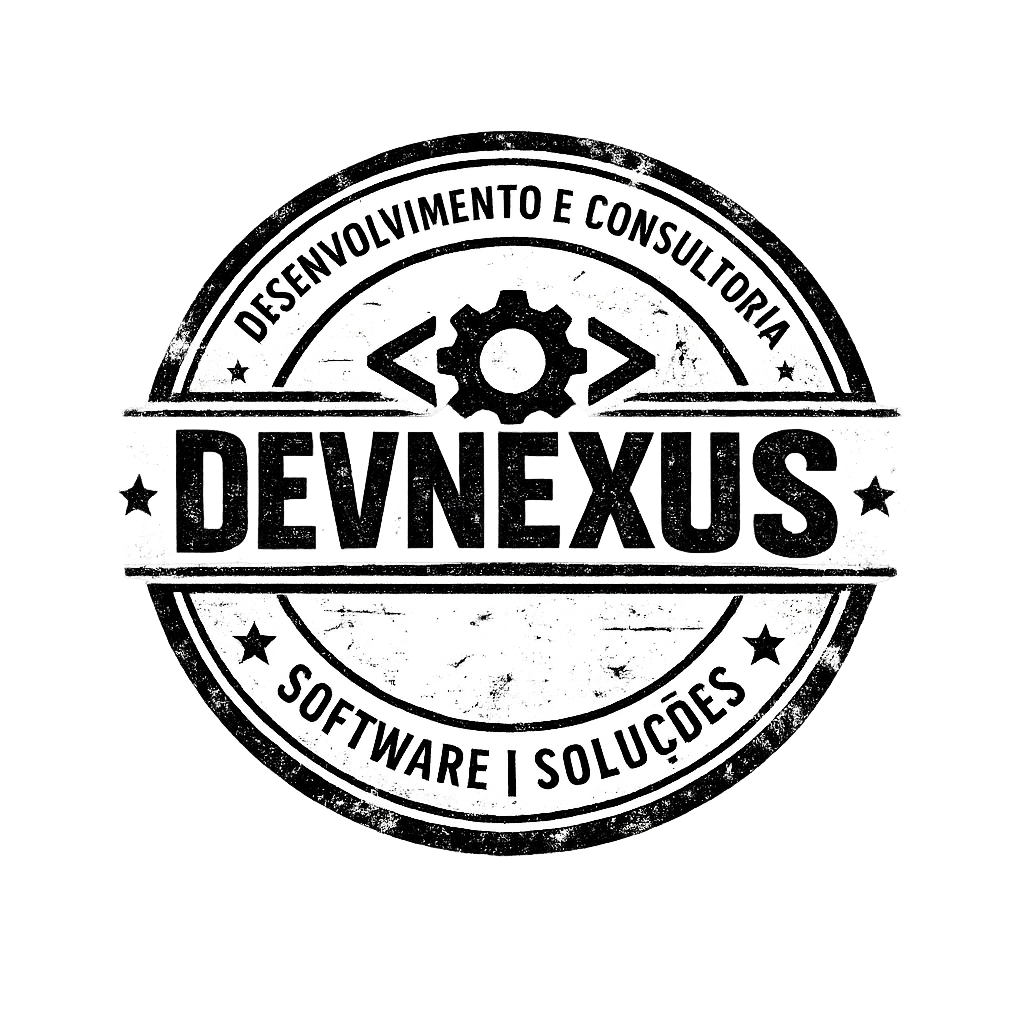
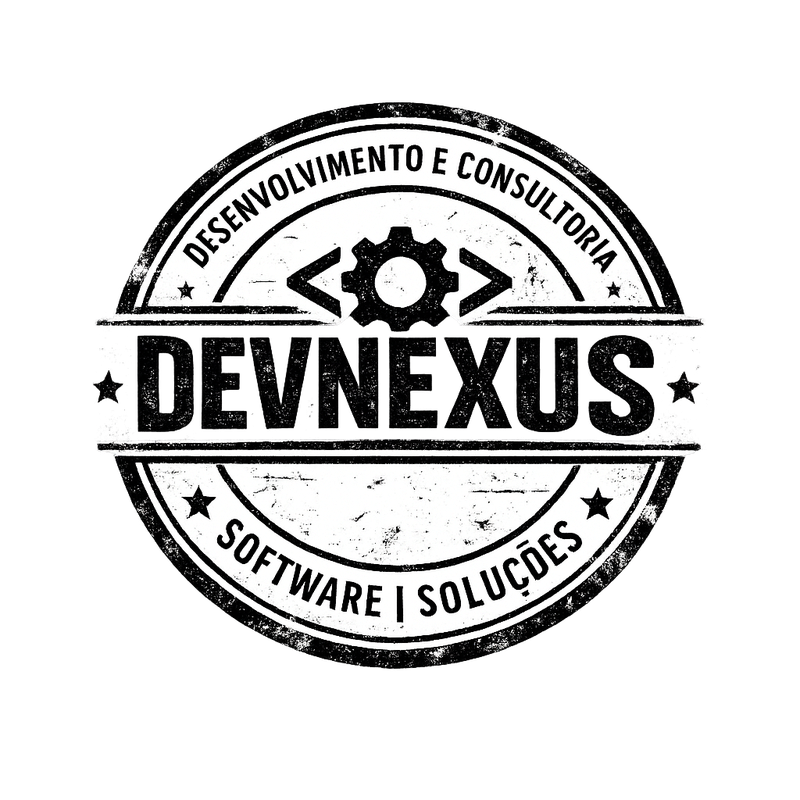
Add files via upload

Changed region(s): [[0.75, 0.6875, 0.7812, 0.7188]]

diff --git a/index.html b/index.html
@@ -3,164 +3,194 @@
 <head>
   <meta charset="UTF-8" />
   <meta name="viewport" content="width=device-width, initial-scale=1.0" />
-  <title>DevNexus Digital | Transformação Digital</title>
-  <meta name="description" content="DevNexus Digital - Consultoria em transformação digital, governação digital, educação, saúde, eleições e administração pública." />
-  <link rel="icon" href="assets/logo-devnexus.png" />
+  <title>DevNexus Digital | Transformação Digital e Governação Pública</title>
+  <meta name="description" content="DevNexus Digital: consultoria em transformação digital, governação de dados, interoperabilidade, educação, saúde, eleições e administração pública." />
+  <meta name="theme-color" content="#062f5f" />
+  <link rel="icon" type="image/png" href="assets/favicon.png" />
+  <link rel="preload" as="image" href="assets/hero-devnexus.webp" />
   <link rel="stylesheet" href="style.css" />
 </head>
 <body>
-  <div class="page-bg"></div>
+  <div class="scroll-progress" aria-hidden="true"></div>
 
-  <header class="topbar">
-    <div class="nav container">
-      <a class="brand" href="#inicio" aria-label="DevNexus Digital">
-        <img src="assets/logo-devnexus.png" alt="DevNexus" />
+  <header class="site-header" id="topo">
+    <div class="container header-inner">
+      <a href="#inicio" class="brand" aria-label="DevNexus Digital">
+        <img src="assets/logo-devnexus.webp" alt="DevNexus Digital" />
       </a>
-      <button class="menu-toggle" aria-label="Abrir menu" aria-expanded="false">☰</button>
-      <nav class="menu">
+      <button class="menu-toggle" aria-label="Abrir menu" aria-expanded="false"><span></span><span></span><span></span></button>
+      <nav class="main-nav" aria-label="Menu principal">
         <a href="#sobre">Sobre</a>
         <a href="#sectores">Sectores</a>
         <a href="#servicos">Serviços</a>
-        <a href="#impacto">Impacto</a>
-        <a href="#contacto" class="nav-cta">Contacto</a>
+        <a href="#metodo">Método</a>
+        <a href="#contacto" class="nav-button">Contacto</a>
       </nav>
     </div>
   </header>
 
   <main id="inicio">
-    <section class="hero">
-      <div class="hero-band"><img src="assets/header-devnexus.png" alt="" /></div>
+    <section class="hero-section">
+      <canvas id="networkCanvas" aria-hidden="true"></canvas>
+      <div class="hero-glow" aria-hidden="true"></div>
       <div class="container hero-grid">
         <div class="hero-copy reveal">
-          <span class="eyebrow">Consultoria em transformação digital</span>
+          <span class="eyebrow">Estratégia · Dados · Sistemas · Instituições</span>
           <h1>Transformação digital com visão institucional.</h1>
-          <p>A DevNexus Digital apoia governos, instituições públicas e projectos na concepção, estruturação e implementação de soluções digitais para educação, saúde, eleições e administração pública.</p>
+          <p class="hero-lead">
+            A DevNexus Digital apoia governos, projectos e organizações públicas na concepção e execução de soluções digitais para educação, saúde, eleições e administração pública.
+          </p>
           <div class="hero-actions">
-            <a href="#servicos" class="btn btn-primary">Ver serviços</a>
-            <a href="#contacto" class="btn btn-secondary">Falar connosco</a>
+            <a class="btn btn-primary" href="#contacto">Pedir contacto</a>
+            <a class="btn btn-ghost" href="#servicos">Ver competências</a>
           </div>
-          <div class="quick-proof">
+          <div class="hero-meta" aria-label="Competências principais">
             <span>Governação digital</span>
+            <span>Interoperabilidade</span>
             <span>Arquitectura institucional</span>
-            <span>Dados e interoperabilidade</span>
           </div>
         </div>
-        <div class="hero-visual reveal reveal-right">
-          <img src="assets/hero-devnexus.png" alt="Imagem institucional DevNexus" />
+
+        <div class="hero-card reveal right">
+          <picture>
+            <source srcset="assets/hero-devnexus.webp" type="image/webp" />
+            <img src="assets/hero-devnexus.webp" alt="Imagem corporativa DevNexus Digital" />
+          </picture>
+          <div class="floating-panel panel-one">Dados governados</div>
+          <div class="floating-panel panel-two">Serviços digitais</div>
         </div>
       </div>
     </section>
 
-    <section id="sobre" class="section">
-      <div class="container split">
-        <div class="section-title reveal">
-          <span class="section-kicker">Quem somos</span>
-          <h2>Não vendemos fantasia tecnológica. Estruturamos transformação que funciona.</h2>
+    <section id="sobre" class="section intro-section">
+      <div class="container two-col">
+        <div class="section-heading reveal">
+          <span class="kicker">Quem somos</span>
+          <h2>Menos teatro tecnológico. Mais execução que sobrevive ao terreno.</h2>
         </div>
-        <div class="text-block reveal">
-          <p>A DevNexus Digital trabalha na ligação entre estratégia, processos, dados, sistemas e capacidade institucional. O nosso foco é ajudar organizações públicas e projectos de desenvolvimento a desenhar soluções digitais que resistem ao uso real.</p>
-          <p>A tecnologia entra como instrumento. A base é sempre institucional: clareza de mandato, processos bem definidos, dados governados, responsabilidades assumidas e equipas capacitadas.</p>
+        <div class="copy-block reveal">
+          <p>A DevNexus Digital trabalha na zona onde muitos projectos se perdem: entre a decisão política, o processo administrativo, o dado, a tecnologia e a capacidade real das instituições.</p>
+          <p>O nosso papel é transformar confusão institucional em arquitectura funcional, documentos técnicos, roteiros de implementação e sistemas digitais que fazem sentido para quem gere e para quem usa.</p>
         </div>
       </div>
     </section>
 
-    <section id="sectores" class="section alt">
+    <section id="sectores" class="section sectors-section">
       <div class="container">
-        <div class="section-title center reveal">
-          <span class="section-kicker">Sectores</span>
-          <h2>Áreas onde o Estado não se pode dar ao luxo de improvisar.</h2>
-          <p>Transformação digital aplicada a sectores onde confiança, continuidade e rigor fazem diferença.</p>
+        <div class="section-heading center reveal">
+          <span class="kicker">Sectores de actuação</span>
+          <h2>Áreas onde rigor, confiança e continuidade contam mesmo.</h2>
         </div>
-        <div class="cards four">
-          <article class="card reveal"><div class="card-icon">🎓</div><h3>Educação</h3><p>Sistemas de gestão escolar, inventário TIC, dados educacionais, conectividade, SIGE e capacidade operacional.</p></article>
-          <article class="card reveal"><div class="card-icon">🏥</div><h3>Saúde</h3><p>Digitalização de processos, informação clínica e administrativa, interoperabilidade e apoio à decisão.</p></article>
-          <article class="card reveal"><div class="card-icon">🗳️</div><h3>Eleições</h3><p>Gestão de dados eleitorais, integridade, rastreabilidade, segurança e transparência operacional.</p></article>
-          <article class="card reveal"><div class="card-icon">🏛️</div><h3>Administração Pública</h3><p>Modernização administrativa, serviços digitais, arquitectura empresarial e reorganização de processos.</p></article>
-        </div>
-      </div>
-    </section>
-
-    <section id="servicos" class="section">
-      <div class="container">
-        <div class="section-title center reveal">
-          <span class="section-kicker">Serviços</span>
-          <h2>Da estratégia ao desenho operacional.</h2>
-          <p>Trabalho técnico, institucional e pragmático. Sem apresentações bonitas que depois ninguém consegue executar.</p>
-        </div>
-        <div class="services">
-          <article class="service reveal"><span>01</span><div><h3>Estratégia e governação digital</h3><p>Estratégias, modelos de governação, roteiros, planos de acção e organização institucional da transformação digital.</p></div></article>
-          <article class="service reveal"><span>02</span><div><h3>Diagnóstico institucional e tecnológico</h3><p>Levantamento de processos, sistemas, dados, infraestruturas, riscos, maturidade digital e prioridades reais.</p></div></article>
-          <article class="service reveal"><span>03</span><div><h3>Arquitectura e especificações</h3><p>Termos de referência, requisitos funcionais, modelos de dados, interoperabilidade, perfis e critérios de aceitação.</p></div></article>
-          <article class="service reveal"><span>04</span><div><h3>Capacitação e apoio à implementação</h3><p>Formação, manuais, gestão da mudança, acompanhamento técnico e reforço da sustentabilidade institucional.</p></div></article>
+        <div class="sector-grid">
+          <article class="sector-card reveal"><span>ED</span><h3>Educação</h3><p>SIGE, inventário TIC, dados escolares, conectividade, interoperabilidade e capacitação das estruturas educativas.</p></article>
+          <article class="sector-card reveal"><span>SA</span><h3>Saúde</h3><p>Digitalização de processos, fluxos de informação, governação de dados e integração entre unidades e serviços.</p></article>
+          <article class="sector-card reveal"><span>EL</span><h3>Eleições</h3><p>Gestão segura de dados, rastreabilidade, transparência operacional, auditoria e integridade dos processos eleitorais.</p></article>
+          <article class="sector-card reveal"><span>AP</span><h3>Administração Pública</h3><p>Modernização administrativa, serviços digitais, arquitectura empresarial e reorganização de processos públicos.</p></article>
         </div>
       </div>
     </section>
 
-    <section id="impacto" class="section alt">
+    <section id="servicos" class="section services-section">
       <div class="container">
-        <div class="section-title center reveal">
-          <span class="section-kicker">Impacto</span>
-          <h2>Indicadores visuais da proposta de valor.</h2>
-          <p>Gráficos animados para comunicar foco estratégico e maturidade de intervenção.</p>
+        <div class="section-heading center reveal">
+          <span class="kicker">Serviços</span>
+          <h2>Da ideia política ao desenho técnico executável.</h2>
+          <p>Entregamos trabalho que ajuda a decidir, contratar, implementar e sustentar.</p>
+        </div>
+        <div class="service-grid">
+          <article class="service-card reveal"><small>01</small><h3>Estratégia e governação digital</h3><p>Estratégias, modelos de governação, planos de acção, arquitectura institucional e roteiros realistas.</p></article>
+          <article class="service-card reveal"><small>02</small><h3>Diagnóstico institucional e tecnológico</h3><p>Levantamento de processos, sistemas, dados, infraestruturas, capacidades, riscos e prioridades.</p></article>
+          <article class="service-card reveal"><small>03</small><h3>Interoperabilidade e dados</h3><p>Modelos de dados, catálogos, integração entre sistemas, normas, API, qualidade e responsabilidade institucional.</p></article>
+          <article class="service-card reveal"><small>04</small><h3>Termos de referência e procurement</h3><p>Requisitos funcionais, especificações técnicas, critérios de aceitação e documentação ao estilo de projectos internacionais.</p></article>
+          <article class="service-card reveal"><small>05</small><h3>Capacitação e gestão da mudança</h3><p>Formação, manuais, apoio à adopção, procedimentos e reforço das equipas nacionais.</p></article>
+          <article class="service-card reveal"><small>06</small><h3>Monitorização e sustentabilidade</h3><p>Indicadores, painéis, controlo de execução, melhoria contínua e continuidade operacional.</p></article>
+        </div>
+      </div>
+    </section>
+
+    <section id="metodo" class="section method-section">
+      <div class="container">
+        <div class="method-wrap reveal">
+          <div class="method-copy">
+            <span class="kicker">Método DevNexus</span>
+            <h2>Primeiro a instituição. Depois o sistema.</h2>
+            <p>Não começamos pelo software. Começamos pelo mandato, pelos processos, pelos dados, pelas responsabilidades e pelos riscos. Só depois se desenha a solução.</p>
+          </div>
+          <div class="timeline">
+            <div><strong>01</strong><span>Diagnosticar</span></div>
+            <div><strong>02</strong><span>Desenhar</span></div>
+            <div><strong>03</strong><span>Implementar</span></div>
+            <div><strong>04</strong><span>Consolidar</span></div>
+          </div>
+        </div>
+      </div>
+    </section>
+
+    <section class="section impact-section">
+      <div class="container">
+        <div class="section-heading center reveal">
+          <span class="kicker">Impacto visual</span>
+          <h2>Foco nos pilares que fazem a transformação avançar.</h2>
         </div>
         <div class="impact-grid">
           <article class="chart-card reveal">
-            <h3>Maturidade por sector</h3>
+            <h3>Maturidade de intervenção</h3>
             <div class="bars">
-              <div class="bar-row"><span>Educação</span><div class="bar"><i data-width="86%"></i></div></div>
-              <div class="bar-row"><span>Saúde</span><div class="bar"><i data-width="72%"></i></div></div>
-              <div class="bar-row"><span>Eleições</span><div class="bar"><i data-width="78%"></i></div></div>
-              <div class="bar-row"><span>Administração Pública</span><div class="bar"><i data-width="90%"></i></div></div>
+              <div class="bar-item"><span>Governação</span><b><i data-width="92%"></i></b></div>
+              <div class="bar-item"><span>Dados</span><b><i data-width="86%"></i></b></div>
+              <div class="bar-item"><span>Processos</span><b><i data-width="84%"></i></b></div>
+              <div class="bar-item"><span>Sistemas</span><b><i data-width="88%"></i></b></div>
+              <div class="bar-item"><span>Capacitação</span><b><i data-width="78%"></i></b></div>
             </div>
           </article>
           <article class="chart-card reveal">
-            <h3>Integração institucional</h3>
-            <div class="donut" data-percent="88">
-              <svg viewBox="0 0 160 160"><circle cx="80" cy="80" r="62" class="track"></circle><circle cx="80" cy="80" r="62" class="progress"></circle></svg>
-              <strong>88%</strong>
-            </div>
-            <p>Estratégia, processos, dados e tecnologia alinhados.</p>
+            <h3>Integração estratégia-tecnologia</h3>
+            <div class="donut" data-percent="89"><svg viewBox="0 0 180 180"><circle class="track" cx="90" cy="90" r="70"></circle><circle class="progress" cx="90" cy="90" r="70"></circle></svg><strong>89%</strong></div>
+            <p>Alinhamento entre visão, arquitectura, dados e execução.</p>
           </article>
-          <article class="chart-card reveal">
-            <h3>Componentes da transformação</h3>
-            <div class="mini-bars">
-              <div style="--w:92%"><span>Governação</span><i></i></div>
-              <div style="--w:84%"><span>Dados</span><i></i></div>
-              <div style="--w:80%"><span>Processos</span><i></i></div>
-              <div style="--w:88%"><span>Sistemas</span><i></i></div>
-              <div style="--w:76%"><span>Capacitação</span><i></i></div>
-            </div>
+          <article class="stamp-card reveal">
+            <img src="assets/stamp-devnexus.webp" alt="Carimbo DevNexus" />
           </article>
         </div>
       </div>
     </section>
 
-    <section class="section signature">
-      <div class="container signature-box reveal">
-        <div><span class="section-kicker">Assinatura institucional</span><h2>Rigor, clareza e execução.</h2><p>A DevNexus Digital posiciona-se como parceira técnica para transformar necessidades institucionais em soluções digitais robustas, governáveis e sustentáveis.</p></div>
-        <img src="assets/stamp-devnexus.png" alt="Carimbo DevNexus" />
-      </div>
-    </section>
-
-    <section id="contacto" class="section contact">
+    <section id="contacto" class="section contact-section">
       <div class="container contact-grid">
-        <div class="reveal"><span class="section-kicker">Contacto</span><h2>Vamos falar sobre o seu projecto?</h2><p>Conte-nos o desafio: sector, instituição, sistema, processo ou problema de governação. A DevNexus Digital ajuda a transformar confusão inicial num caminho de execução.</p></div>
-        <div class="contact-card reveal">
-          <a href="mailto:[email redacted]">[email redacted]</a>
-          <a href="https://devnexusdigital.com">devnexusdigital.com</a>
-          <span>Educação · Saúde · Eleições · Administração Pública</span>
+        <div class="contact-copy reveal">
+          <span class="kicker">Contacto</span>
+          <h2>Vamos falar sobre o seu projecto?</h2>
+          <p>Envie a mensagem directamente pelo formulário. Não abre Outlook, Gmail nem aplicação de email. A mensagem segue pelo serviço de formulário configurado.</p>
+          <div class="contact-lines">
+            <a href="mailto:[email redacted]">[email redacted]</a>
+            <a href="https://devnexusdigital.com">devnexusdigital.com</a>
+          </div>
         </div>
+
+        <form id="contactForm" class="contact-form reveal" action="https://formsubmit.co/[email redacted]" method="POST">
+          <input type="hidden" name="_subject" value="Nova mensagem do site DevNexus Digital" />
+          <input type="hidden" name="_template" value="table" />
+          <input type="hidden" name="_captcha" value="false" />
+          <input type="hidden" name="_next" value="https://devnexusdigital.com/obrigado.html" />
+          <label>Nome<input name="nome" type="text" placeholder="O seu nome" required /></label>
+          <label>Email<input name="email" type="email" placeholder="[email redacted]" required /></label>
+          <label>Área<select name="area" required><option value="">Escolher área</option><option>Educação</option><option>Saúde</option><option>Eleições</option><option>Administração Pública</option><option>Transformação digital</option><option>Outra</option></select></label>
+          <label>Mensagem<textarea name="mensagem" placeholder="Explique, em poucas linhas, o desafio ou necessidade." required></textarea></label>
+          <button class="btn btn-primary" type="submit">Enviar mensagem</button>
+          <p id="formStatus" class="form-status" aria-live="polite"></p>
+        </form>
       </div>
     </section>
   </main>
 
   <footer class="footer">
     <div class="container footer-inner">
-      <img src="assets/logo-devnexus.png" alt="DevNexus" />
-      <p>© 2026 DevNexus Digital. Todos os direitos reservados.</p>
+      <img src="assets/logo-devnexus.webp" alt="DevNexus Digital" />
+      <p>© 2026 DevNexus Digital. Transformação digital, governação e sistemas públicos.</p>
+      <a href="#topo">Voltar ao topo ↑</a>
     </div>
   </footer>
 
-  <script src="script.js"></script>
+  <script src="script.js" defer></script>
 </body>
 </html>

diff --git a/script.js b/script.js
@@ -1,1 +1,7 @@
-const toggle=document.querySelector(".menu-toggle");const menu=document.querySelector(".menu");if(toggle&&menu){toggle.addEventListener("click",()=>{const e=menu.classList.toggle("open");toggle.setAttribute("aria-expanded",String(e))});menu.querySelectorAll("a").forEach(e=>{e.addEventListener("click",()=>{menu.classList.remove("open");toggle.setAttribute("aria-expanded","false")})})}const revealObserver=new IntersectionObserver(e=>{e.forEach(e=>{if(e.isIntersecting)e.target.classList.add("show")})},{threshold:.16});document.querySelectorAll(".reveal").forEach(e=>revealObserver.observe(e));const chartObserver=new IntersectionObserver(e=>{e.forEach(e=>{if(!e.isIntersecting)return;e.target.querySelectorAll(".bar i").forEach(e=>{e.style.width=e.dataset.width||"75%"});e.target.querySelectorAll(".mini-bars div").forEach(e=>{const t=e.querySelector("i");if(t)t.style.width=e.style.getPropertyValue("--w")||"70%"});const t=e.target.querySelector(".donut");if(t){const e=Number(t.dataset.percent||0),r=389.56-(389.56*e/100),o=t.querySelector(".progress");if(o)o.style.strokeDashoffset=r}})},{threshold:.3});document.querySelectorAll(".chart-card").forEach(e=>chartObserver.observe(e));
+const header=document.querySelector('.site-header');const progress=document.querySelector('.scroll-progress');const toggle=document.querySelector('.menu-toggle');const nav=document.querySelector('.main-nav');function onScroll(){const y=window.scrollY;header.classList.toggle('scrolled',y>30);const h=document.documentElement.scrollHeight-window.innerHeight;progress.style.width=(h>0?y/h*100:0)+'%'}window.addEventListener('scroll',onScroll,{passive:true});onScroll();if(toggle&&nav){toggle.addEventListener('click',()=>{const open=nav.classList.toggle('open');toggle.setAttribute('aria-expanded',String(open))});nav.querySelectorAll('a').forEach(a=>a.addEventListener('click',()=>{nav.classList.remove('open');toggle.setAttribute('aria-expanded','false')}))}const revealObs=new IntersectionObserver(entries=>{entries.forEach(entry=>{if(entry.isIntersecting){entry.target.classList.add('show');revealObs.unobserve(entry.target)}})},{threshold:.14});document.querySelectorAll('.reveal').forEach(el=>revealObs.observe(el));const chartObs=new IntersectionObserver(entries=>{entries.forEach(entry=>{if(!entry.isIntersecting)return;entry.target.querySelectorAll('.bars i').forEach(i=>{i.style.width=i.dataset.width||'75%'});const donut=entry.target.querySelector('.donut');if(donut){const p=Number(donut.dataset.percent||0);const c=439.82;const circle=donut.querySelector('.progress');circle.style.strokeDashoffset=c-(c*p/100)}chartObs.unobserve(entry.target)})},{threshold:.28});document.querySelectorAll('.chart-card').forEach(el=>chartObs.observe(el));
+
+// Network animation, leve e sem bibliotecas externas
+const canvas=document.getElementById('networkCanvas');if(canvas){const ctx=canvas.getContext('2d');let w,h,nodes=[];const count=48;function resize(){w=canvas.width=canvas.offsetWidth*devicePixelRatio;h=canvas.height=canvas.offsetHeight*devicePixelRatio;ctx.setTransform(devicePixelRatio,0,0,devicePixelRatio,0,0);nodes=Array.from({length:count},()=>({x:Math.random()*canvas.offsetWidth,y:Math.random()*canvas.offsetHeight,vx:(Math.random()-.5)*.35,vy:(Math.random()-.5)*.35,r:Math.random()*2+1}))}window.addEventListener('resize',resize);resize();function draw(){const cw=canvas.offsetWidth,ch=canvas.offsetHeight;ctx.clearRect(0,0,cw,ch);for(const a of nodes){a.x+=a.vx;a.y+=a.vy;if(a.x<0||a.x>cw)a.vx*=-1;if(a.y<0||a.y>ch)a.vy*=-1;ctx.beginPath();ctx.arc(a.x,a.y,a.r,0,Math.PI*2);ctx.fillStyle='rgba(0,143,227,.42)';ctx.fill()}for(let i=0;i<nodes.length;i++){for(let j=i+1;j<nodes.length;j++){const a=nodes[i],b=nodes[j],dx=a.x-b.x,dy=a.y-b.y,d=Math.sqrt(dx*dx+dy*dy);if(d<145){ctx.beginPath();ctx.moveTo(a.x,a.y);ctx.lineTo(b.x,b.y);ctx.strokeStyle=`rgba(0,143,227,${(1-d/145)*.18})`;ctx.lineWidth=1;ctx.stroke()}}}requestAnimationFrame(draw)}draw()}
+
+// Formulário directo via FormSubmit AJAX. Na primeira mensagem, FormSubmit pede confirmação no email configurado.
+const form=document.getElementById('contactForm');const statusEl=document.getElementById('formStatus');if(form){form.addEventListener('submit',async(e)=>{e.preventDefault();statusEl.textContent='A enviar mensagem...';const data=new FormData(form);try{const res=await fetch('https://formsubmit.co/ajax/[email redacted]',{method:'POST',headers:{'Accept':'application/json'},body:data});if(!res.ok)throw new Error('Erro no envio');form.reset();statusEl.textContent='Mensagem enviada. Verifique também o email de confirmação do serviço, se for a primeira submissão.'}catch(err){statusEl.textContent='Não foi possível enviar por AJAX. A tentar envio directo...';setTimeout(()=>form.submit(),800)}})}

diff --git a/style.css b/style.css
@@ -1,1 +1,4 @@
-:root{--navy:#062f5f;--blue:#008fe3;--cyan:#00bdd6;--ink:#233244;--muted:#5d6b7c;--soft:#f4f9fd;--white:#fff;--line:rgba(0,143,227,.16);--shadow:0 22px 55px rgba(6,47,95,.14);--radius:26px}*{box-sizing:border-box;margin:0;padding:0}html{scroll-behavior:smooth}body{font-family:Arial,Helvetica,sans-serif;color:var(--ink);background:#fff;line-height:1.65;overflow-x:hidden}a{color:inherit;text-decoration:none}img{max-width:100%;display:block}.container{width:min(1180px,92%);margin:0 auto}.page-bg{position:fixed;inset:0;background:url("assets/bg-devnexus-fade.png") center/cover no-repeat;opacity:.10;z-index:-2;pointer-events:none}.topbar{position:sticky;top:0;z-index:20;background:rgba(255,255,255,.92);backdrop-filter:blur(14px);border-bottom:1px solid var(--line)}.nav{min-height:78px;display:flex;justify-content:space-between;align-items:center;gap:24px}.brand img{height:54px;width:auto}.menu{display:flex;align-items:center;gap:23px;color:var(--navy);font-weight:700}.menu a{transition:.25s ease}.menu a:hover{color:var(--blue)}.nav-cta{padding:12px 18px;border-radius:999px;color:white!important;background:linear-gradient(135deg,var(--navy),var(--blue));box-shadow:0 12px 28px rgba(0,143,227,.25)}.menu-toggle{display:none;border:0;background:var(--navy);color:#fff;width:44px;height:44px;border-radius:12px;font-size:1.3rem}.hero{position:relative;min-height:calc(100vh - 78px);display:grid;align-items:center;overflow:hidden;background:radial-gradient(circle at 20% 15%,rgba(0,189,214,.18),transparent 30%),radial-gradient(circle at 85% 18%,rgba(0,143,227,.18),transparent 30%),linear-gradient(135deg,#fff 0%,#f2fbff 55%,#e8f7ff 100%)}.hero-band{position:absolute;inset:0 0 auto 0;height:210px;opacity:.42;overflow:hidden}.hero-band img{width:100%;height:100%;object-fit:cover}.hero:after{content:"";position:absolute;inset:0;background-image:linear-gradient(rgba(0,143,227,.08) 1px,transparent 1px),linear-gradient(90deg,rgba(0,143,227,.08) 1px,transparent 1px);background-size:44px 44px;mask-image:linear-gradient(to bottom,rgba(0,0,0,.28),transparent 70%);pointer-events:none}.hero-grid{position:relative;z-index:2;display:grid;grid-template-columns:1fr .95fr;gap:54px;align-items:center;padding:78px 0}.eyebrow,.section-kicker{display:inline-flex;color:var(--navy);background:rgba(0,143,227,.10);padding:8px 14px;border-radius:999px;font-size:.88rem;font-weight:800;margin-bottom:18px}h1{font-size:clamp(2.5rem,5vw,5.4rem);line-height:.98;letter-spacing:-.075em;color:var(--navy);margin-bottom:24px}.hero-copy p{font-size:1.16rem;max-width:690px;color:#425166;margin-bottom:30px}.hero-actions{display:flex;gap:14px;flex-wrap:wrap;margin-bottom:28px}.btn{display:inline-flex;align-items:center;justify-content:center;border-radius:999px;padding:14px 23px;font-weight:800;transition:.25s ease}.btn-primary{background:linear-gradient(135deg,var(--navy),var(--blue));color:#fff;box-shadow:0 14px 30px rgba(0,143,227,.28)}.btn-secondary{background:#fff;color:var(--navy);border:1px solid var(--line)}.btn:hover{transform:translateY(-2px)}.quick-proof{display:flex;flex-wrap:wrap;gap:11px}.quick-proof span{padding:10px 14px;border:1px solid var(--line);border-radius:999px;background:rgba(255,255,255,.78);color:var(--navy);font-weight:800;font-size:.9rem}.hero-visual{border-radius:34px;overflow:hidden;box-shadow:var(--shadow);animation:floatLogo 5.5s ease-in-out infinite}.hero-visual img{width:100%;aspect-ratio:16/10;object-fit:cover}@keyframes floatLogo{0%,100%{transform:translateY(0)}50%{transform:translateY(-12px)}}.section{padding:92px 0}.alt{background:rgba(244,249,253,.94)}.split{display:grid;grid-template-columns:.9fr 1.1fr;gap:50px;align-items:start}.section-title h2,.contact h2,.signature h2{color:var(--navy);font-size:clamp(2rem,3.5vw,3.4rem);line-height:1.08;letter-spacing:-.055em;margin-bottom:16px}.section-title p,.text-block p,.signature p,.contact p{color:var(--muted);font-size:1.05rem}.text-block{display:grid;gap:18px}.center{text-align:center;max-width:820px;margin:0 auto 42px}.cards{display:grid;gap:22px}.cards.four{grid-template-columns:repeat(4,1fr)}.card{background:rgba(255,255,255,.92);border:1px solid rgba(6,47,95,.09);border-radius:var(--radius);padding:28px;box-shadow:0 14px 34px rgba(6,47,95,.07);transition:.25s ease}.card:hover{transform:translateY(-5px);box-shadow:var(--shadow)}.card-icon{width:54px;height:54px;display:grid;place-items:center;border-radius:18px;background:linear-gradient(135deg,rgba(0,143,227,.12),rgba(0,189,214,.18));margin-bottom:18px;font-size:1.5rem}.card h3,.service h3,.chart-card h3{color:var(--navy);font-size:1.22rem;margin-bottom:10px}.card p,.service p,.chart-card p{color:var(--muted)}.services{display:grid;grid-template-columns:1fr 1fr;gap:20px}.service{display:grid;grid-template-columns:auto 1fr;gap:18px;padding:28px;border-radius:var(--radius);background:#fff;border:1px solid rgba(6,47,95,.09);box-shadow:0 14px 34px rgba(6,47,95,.07)}.service span{width:48px;height:48px;display:grid;place-items:center;border-radius:16px;background:linear-gradient(135deg,var(--navy),var(--blue));color:#fff;font-weight:900}.impact-grid{display:grid;grid-template-columns:1.1fr .8fr 1fr;gap:22px}.chart-card{min-height:330px;padding:28px;background:#fff;border:1px solid rgba(6,47,95,.09);border-radius:var(--radius);box-shadow:0 14px 34px rgba(6,47,95,.07)}.bars,.mini-bars{display:grid;gap:17px;margin-top:22px}.bar-row span,.mini-bars span{display:block;color:var(--navy);font-weight:800;margin-bottom:8px}.bar,.mini-bars div{height:14px;border-radius:999px;background:#ddebf5;overflow:hidden}.bar i,.mini-bars i{display:block;width:0;height:100%;border-radius:999px;background:linear-gradient(90deg,var(--cyan),var(--blue),var(--navy));transition:width 1.8s ease}.donut{position:relative;width:190px;height:190px;margin:24px auto 18px}.donut svg{width:100%;height:100%;transform:rotate(-90deg)}.donut circle{fill:none;stroke-width:14}.donut .track{stroke:#ddebf5}.donut .progress{stroke:var(--blue);stroke-linecap:round;stroke-dasharray:389.56;stroke-dashoffset:389.56;transition:stroke-dashoffset 2s ease}.donut strong{position:absolute;inset:0;display:grid;place-items:center;color:var(--navy);font-size:2.2rem}.signature{background:linear-gradient(135deg,#fff,#f6fbff)}.signature-box{display:grid;grid-template-columns:1fr 320px;gap:40px;align-items:center;padding:42px;border-radius:34px;background:rgba(255,255,255,.92);border:1px solid rgba(6,47,95,.09);box-shadow:var(--shadow)}.signature-box img{width:100%;opacity:.92;filter:contrast(1.05)}.contact{background:linear-gradient(rgba(255,255,255,.86),rgba(255,255,255,.94)),url("assets/bg-devnexus-fade.png") center/cover no-repeat}.contact-grid{display:grid;grid-template-columns:1fr .9fr;gap:34px;align-items:center}.contact-card{padding:30px;background:#fff;border-radius:var(--radius);box-shadow:var(--shadow);border:1px solid rgba(6,47,95,.09);display:grid;gap:14px}.contact-card a,.contact-card span{padding:16px 18px;border-radius:16px;background:var(--soft);color:var(--navy);font-weight:800}.footer{background:#051f3f;color:rgba(255,255,255,.82);padding:34px 0}.footer-inner{display:flex;justify-content:space-between;align-items:center;gap:24px;flex-wrap:wrap}.footer img{height:48px;width:auto}.reveal{opacity:0;transform:translateY(28px);transition:opacity .8s ease,transform .8s ease}.reveal-right{transform:translateX(44px)}.reveal.show{opacity:1;transform:translate(0,0)}@media(max-width:980px){.hero-grid,.split,.contact-grid,.signature-box,.impact-grid,.services{grid-template-columns:1fr}.cards.four{grid-template-columns:1fr 1fr}.signature-box img{max-width:300px;margin:0 auto}}@media(max-width:720px){.menu-toggle{display:grid;place-items:center}.menu{position:absolute;left:4%;right:4%;top:78px;display:none;flex-direction:column;align-items:stretch;gap:0;background:#fff;border:1px solid var(--line);border-radius:18px;box-shadow:var(--shadow);overflow:hidden}.menu.open{display:flex}.menu a{padding:15px 18px;border-bottom:1px solid rgba(6,47,95,.08)}.nav-cta{margin:12px;text-align:center}.hero{min-height:auto}.hero-grid{padding:54px 0}.cards.four{grid-template-columns:1fr}.section{padding:70px 0}.footer-inner{justify-content:center;text-align:center}}
+:root{
+  --navy:#062f5f;--navy2:#041d3e;--blue:#008fe3;--cyan:#00bdd6;--ink:#1e2a38;--muted:#5b6777;--soft:#f4f9fd;--white:#fff;--line:rgba(0,143,227,.18);--shadow:0 28px 80px rgba(6,47,95,.16);--radius:28px
+}
+*{box-sizing:border-box;margin:0;padding:0}html{scroll-behavior:smooth}body{font-family:Inter,Arial,Helvetica,sans-serif;color:var(--ink);background:#fff;line-height:1.65;overflow-x:hidden}a{text-decoration:none;color:inherit}img{display:block;max-width:100%}.container{width:min(1180px,92%);margin-inline:auto}.scroll-progress{position:fixed;top:0;left:0;height:3px;width:0;background:linear-gradient(90deg,var(--cyan),var(--blue),var(--navy));z-index:999}.site-header{position:fixed;top:0;left:0;right:0;z-index:50;transition:.3s ease}.site-header.scrolled{background:rgba(255,255,255,.86);backdrop-filter:blur(18px);box-shadow:0 12px 40px rgba(6,47,95,.08);border-bottom:1px solid rgba(0,143,227,.12)}.header-inner{height:86px;display:flex;align-items:center;justify-content:space-between;gap:24px}.brand img{height:50px;width:auto;filter:drop-shadow(0 12px 20px rgba(0,143,227,.12))}.main-nav{display:flex;align-items:center;gap:24px;font-weight:750;color:var(--navy)}.main-nav a{position:relative}.main-nav a:not(.nav-button):after{content:"";position:absolute;left:0;bottom:-7px;height:2px;width:0;background:var(--blue);transition:.25s ease}.main-nav a:hover:after{width:100%}.nav-button{padding:12px 18px;border-radius:999px;background:linear-gradient(135deg,var(--navy),var(--blue));color:#fff;box-shadow:0 12px 28px rgba(0,143,227,.26)}.menu-toggle{display:none;width:46px;height:46px;border:0;border-radius:14px;background:var(--navy);padding:12px}.menu-toggle span{display:block;height:2px;background:#fff;margin:5px 0;border-radius:2px}.hero-section{min-height:100vh;position:relative;display:grid;align-items:center;overflow:hidden;background:radial-gradient(circle at 16% 22%,rgba(0,189,214,.22),transparent 28%),radial-gradient(circle at 83% 18%,rgba(0,143,227,.18),transparent 30%),linear-gradient(135deg,#fbfdff 0%,#eef9ff 48%,#e9f6ff 100%)}#networkCanvas{position:absolute;inset:0;width:100%;height:100%;opacity:.58}.hero-glow{position:absolute;right:-16%;top:8%;width:650px;height:650px;border-radius:50%;background:radial-gradient(circle,rgba(0,189,214,.18),transparent 68%);filter:blur(6px)}.hero-grid{position:relative;z-index:2;display:grid;grid-template-columns:1fr .96fr;gap:58px;align-items:center;padding-top:92px}.eyebrow,.kicker{display:inline-flex;align-items:center;gap:8px;padding:8px 14px;border:1px solid rgba(0,143,227,.18);border-radius:999px;background:rgba(255,255,255,.72);color:var(--navy);font-size:.86rem;font-weight:800;box-shadow:0 12px 34px rgba(6,47,95,.06);margin-bottom:20px}.eyebrow:before,.kicker:before{content:"";width:8px;height:8px;border-radius:50%;background:var(--cyan);box-shadow:0 0 16px var(--cyan)}h1{font-size:clamp(2.8rem,6vw,6.1rem);line-height:.95;letter-spacing:-.082em;color:var(--navy2);margin-bottom:24px}.hero-lead{font-size:1.18rem;color:#415069;max-width:720px;margin-bottom:30px}.hero-actions{display:flex;gap:14px;flex-wrap:wrap;margin-bottom:28px}.btn{display:inline-flex;align-items:center;justify-content:center;border:0;border-radius:999px;padding:14px 23px;font-weight:850;cursor:pointer;transition:transform .25s ease,box-shadow .25s ease}.btn:hover{transform:translateY(-3px)}.btn-primary{background:linear-gradient(135deg,var(--navy),var(--blue));color:#fff;box-shadow:0 16px 34px rgba(0,143,227,.28)}.btn-ghost{background:rgba(255,255,255,.72);border:1px solid var(--line);color:var(--navy);box-shadow:0 12px 26px rgba(6,47,95,.07)}.hero-meta{display:flex;flex-wrap:wrap;gap:10px}.hero-meta span{background:rgba(255,255,255,.76);border:1px solid rgba(0,143,227,.14);color:var(--navy);padding:10px 14px;border-radius:999px;font-weight:800;font-size:.9rem}.hero-card{position:relative;border-radius:36px;overflow:hidden;background:rgba(255,255,255,.36);box-shadow:var(--shadow);border:1px solid rgba(255,255,255,.72);transform-style:preserve-3d}.hero-card:before{content:"";position:absolute;inset:0;background:linear-gradient(135deg,rgba(255,255,255,.32),transparent 55%);z-index:1;pointer-events:none}.hero-card img{width:100%;aspect-ratio:16/10;object-fit:cover;animation:slowZoom 9s ease-in-out infinite alternate}@keyframes slowZoom{from{transform:scale(1)}to{transform:scale(1.045)}}.floating-panel{position:absolute;z-index:3;padding:12px 16px;border-radius:16px;background:rgba(255,255,255,.82);backdrop-filter:blur(12px);box-shadow:0 18px 40px rgba(6,47,95,.15);color:var(--navy);font-weight:850;border:1px solid rgba(255,255,255,.7)}.panel-one{left:20px;bottom:24px}.panel-two{right:20px;top:24px}.section{padding:108px 0}.two-col{display:grid;grid-template-columns:.92fr 1.08fr;gap:54px;align-items:start}.section-heading h2,.contact-copy h2,.method-copy h2{font-size:clamp(2.1rem,4vw,3.65rem);line-height:1.05;letter-spacing:-.06em;color:var(--navy2);margin-bottom:16px}.section-heading p,.copy-block p,.contact-copy p,.method-copy p{color:var(--muted);font-size:1.06rem}.copy-block{display:grid;gap:18px}.center{text-align:center;max-width:850px;margin:0 auto 46px}.sectors-section,.impact-section{background:linear-gradient(180deg,#f6fbff,#fff)}.sector-grid{display:grid;grid-template-columns:repeat(4,1fr);gap:22px}.sector-card,.service-card,.chart-card,.stamp-card{position:relative;overflow:hidden;background:rgba(255,255,255,.86);border:1px solid rgba(6,47,95,.09);border-radius:var(--radius);box-shadow:0 16px 44px rgba(6,47,95,.08)}.sector-card{padding:28px;transition:.25s ease}.sector-card:hover,.service-card:hover{transform:translateY(-6px);box-shadow:var(--shadow)}.sector-card:after,.service-card:after{content:"";position:absolute;inset:auto -60px -80px auto;width:180px;height:180px;border-radius:50%;background:radial-gradient(circle,rgba(0,189,214,.16),transparent 70%)}.sector-card span{width:56px;height:56px;display:grid;place-items:center;border-radius:18px;background:linear-gradient(135deg,var(--navy),var(--blue));color:#fff;font-weight:900;margin-bottom:18px}.sector-card h3,.service-card h3,.chart-card h3{color:var(--navy2);font-size:1.24rem;margin-bottom:10px}.sector-card p,.service-card p,.chart-card p{color:var(--muted)}.service-grid{display:grid;grid-template-columns:repeat(3,1fr);gap:22px}.service-card{padding:30px}.service-card small{display:inline-flex;width:48px;height:48px;align-items:center;justify-content:center;border-radius:16px;background:#eff8ff;color:var(--blue);font-size:1rem;font-weight:950;margin-bottom:18px}.method-section{background:linear-gradient(135deg,var(--navy2),#064b89 58%,var(--blue));color:#fff;position:relative;overflow:hidden}.method-section:before{content:"";position:absolute;inset:0;background:url("assets/header-devnexus.webp") center/cover no-repeat;opacity:.11}.method-wrap{position:relative;display:grid;grid-template-columns:1fr 1.15fr;gap:42px;align-items:center}.method-copy h2,.method-copy p{color:#fff}.method-copy .kicker{background:rgba(255,255,255,.12);color:#fff;border-color:rgba(255,255,255,.2)}.timeline{display:grid;grid-template-columns:repeat(4,1fr);gap:14px}.timeline div{min-height:150px;padding:22px;border-radius:24px;background:rgba(255,255,255,.12);border:1px solid rgba(255,255,255,.2);backdrop-filter:blur(10px);display:flex;flex-direction:column;justify-content:space-between}.timeline strong{font-size:2rem}.timeline span{font-weight:850}.impact-grid{display:grid;grid-template-columns:1.1fr .9fr .85fr;gap:22px}.chart-card,.stamp-card{padding:28px;min-height:340px}.bars{display:grid;gap:18px;margin-top:24px}.bar-item{display:grid;gap:8px}.bar-item span{color:var(--navy);font-weight:850}.bar-item b{display:block;height:16px;background:#dcecf8;border-radius:999px;overflow:hidden}.bar-item i{display:block;height:100%;width:0;border-radius:999px;background:linear-gradient(90deg,var(--cyan),var(--blue),var(--navy));transition:width 1.9s cubic-bezier(.16,1,.3,1)}.donut{position:relative;width:210px;height:210px;margin:26px auto 18px}.donut svg{width:100%;height:100%;transform:rotate(-90deg)}.donut circle{fill:none;stroke-width:16}.track{stroke:#dcecf8}.progress{stroke:var(--blue);stroke-linecap:round;stroke-dasharray:439.82;stroke-dashoffset:439.82;transition:stroke-dashoffset 2s cubic-bezier(.16,1,.3,1)}.donut strong{position:absolute;inset:0;display:grid;place-items:center;color:var(--navy);font-size:2.4rem}.stamp-card{display:grid;place-items:center;background:linear-gradient(135deg,#fff,#f5f9fd)}.stamp-card img{width:min(290px,90%);opacity:.82;filter:contrast(1.08)}.contact-section{background:linear-gradient(rgba(255,255,255,.9),rgba(255,255,255,.95)),url("assets/bg-devnexus-fade.webp") center/cover no-repeat}.contact-grid{display:grid;grid-template-columns:.92fr 1.08fr;gap:42px;align-items:start}.contact-lines{margin-top:24px;display:grid;gap:12px}.contact-lines a{display:inline-flex;color:var(--navy);font-weight:850}.contact-form{padding:30px;border-radius:32px;background:rgba(255,255,255,.9);border:1px solid rgba(6,47,95,.09);box-shadow:var(--shadow);display:grid;gap:16px}.contact-form label{font-size:.9rem;font-weight:850;color:var(--navy)}.contact-form input,.contact-form select,.contact-form textarea{width:100%;margin-top:7px;border:1px solid rgba(6,47,95,.16);background:#f9fcff;border-radius:16px;padding:14px 15px;font:inherit;color:var(--ink);outline:none;transition:.22s ease}.contact-form textarea{min-height:130px;resize:vertical}.contact-form input:focus,.contact-form select:focus,.contact-form textarea:focus{border-color:var(--blue);box-shadow:0 0 0 4px rgba(0,143,227,.12)}.form-status{min-height:24px;font-weight:800;color:var(--navy)}.footer{background:#031b39;color:rgba(255,255,255,.78);padding:34px 0}.footer-inner{display:flex;align-items:center;justify-content:space-between;gap:22px;flex-wrap:wrap}.footer img{height:46px;width:auto}.footer a{color:#fff;font-weight:850}.reveal{opacity:0;transform:translateY(28px);transition:opacity .75s ease,transform .75s ease}.reveal.right{transform:translateX(44px)}.reveal.show{opacity:1;transform:translate(0,0)}@media(max-width:1040px){.hero-grid,.two-col,.method-wrap,.contact-grid,.impact-grid{grid-template-columns:1fr}.sector-grid{grid-template-columns:repeat(2,1fr)}.service-grid{grid-template-columns:repeat(2,1fr)}.timeline{grid-template-columns:repeat(2,1fr)}}@media(max-width:720px){.header-inner{height:76px}.brand img{height:42px}.menu-toggle{display:block}.main-nav{position:absolute;top:76px;left:4%;right:4%;display:none;flex-direction:column;align-items:stretch;gap:0;padding:10px;background:rgba(255,255,255,.96);backdrop-filter:blur(14px);border:1px solid var(--line);border-radius:22px;box-shadow:var(--shadow)}.main-nav.open{display:flex}.main-nav a{padding:14px 16px;border-radius:14px}.nav-button{text-align:center}.hero-grid{padding-top:110px;gap:32px}h1{font-size:clamp(2.45rem,16vw,4rem)}.section{padding:78px 0}.sector-grid,.service-grid,.timeline{grid-template-columns:1fr}.footer-inner{justify-content:center;text-align:center}.floating-panel{display:none}}

diff --git a/obrigado.html b/obrigado.html
@@ -1,0 +1,1 @@
+<!DOCTYPE html><html lang="pt"><head><meta charset="UTF-8"><meta name="viewport" content="width=device-width, initial-scale=1.0"><title>Mensagem recebida | DevNexus Digital</title><link rel="stylesheet" href="style.css"></head><body><main class="section contact-section" style="min-height:100vh;display:grid;align-items:center"><div class="container contact-grid"><div><span class="kicker">Mensagem enviada</span><h1 style="font-size:clamp(2.4rem,5vw,4.8rem)">Obrigado.</h1><p class="hero-lead">A sua mensagem foi enviada para a DevNexus Digital.</p><a class="btn btn-primary" href="/">Voltar ao site</a></div></div></main></body></html>